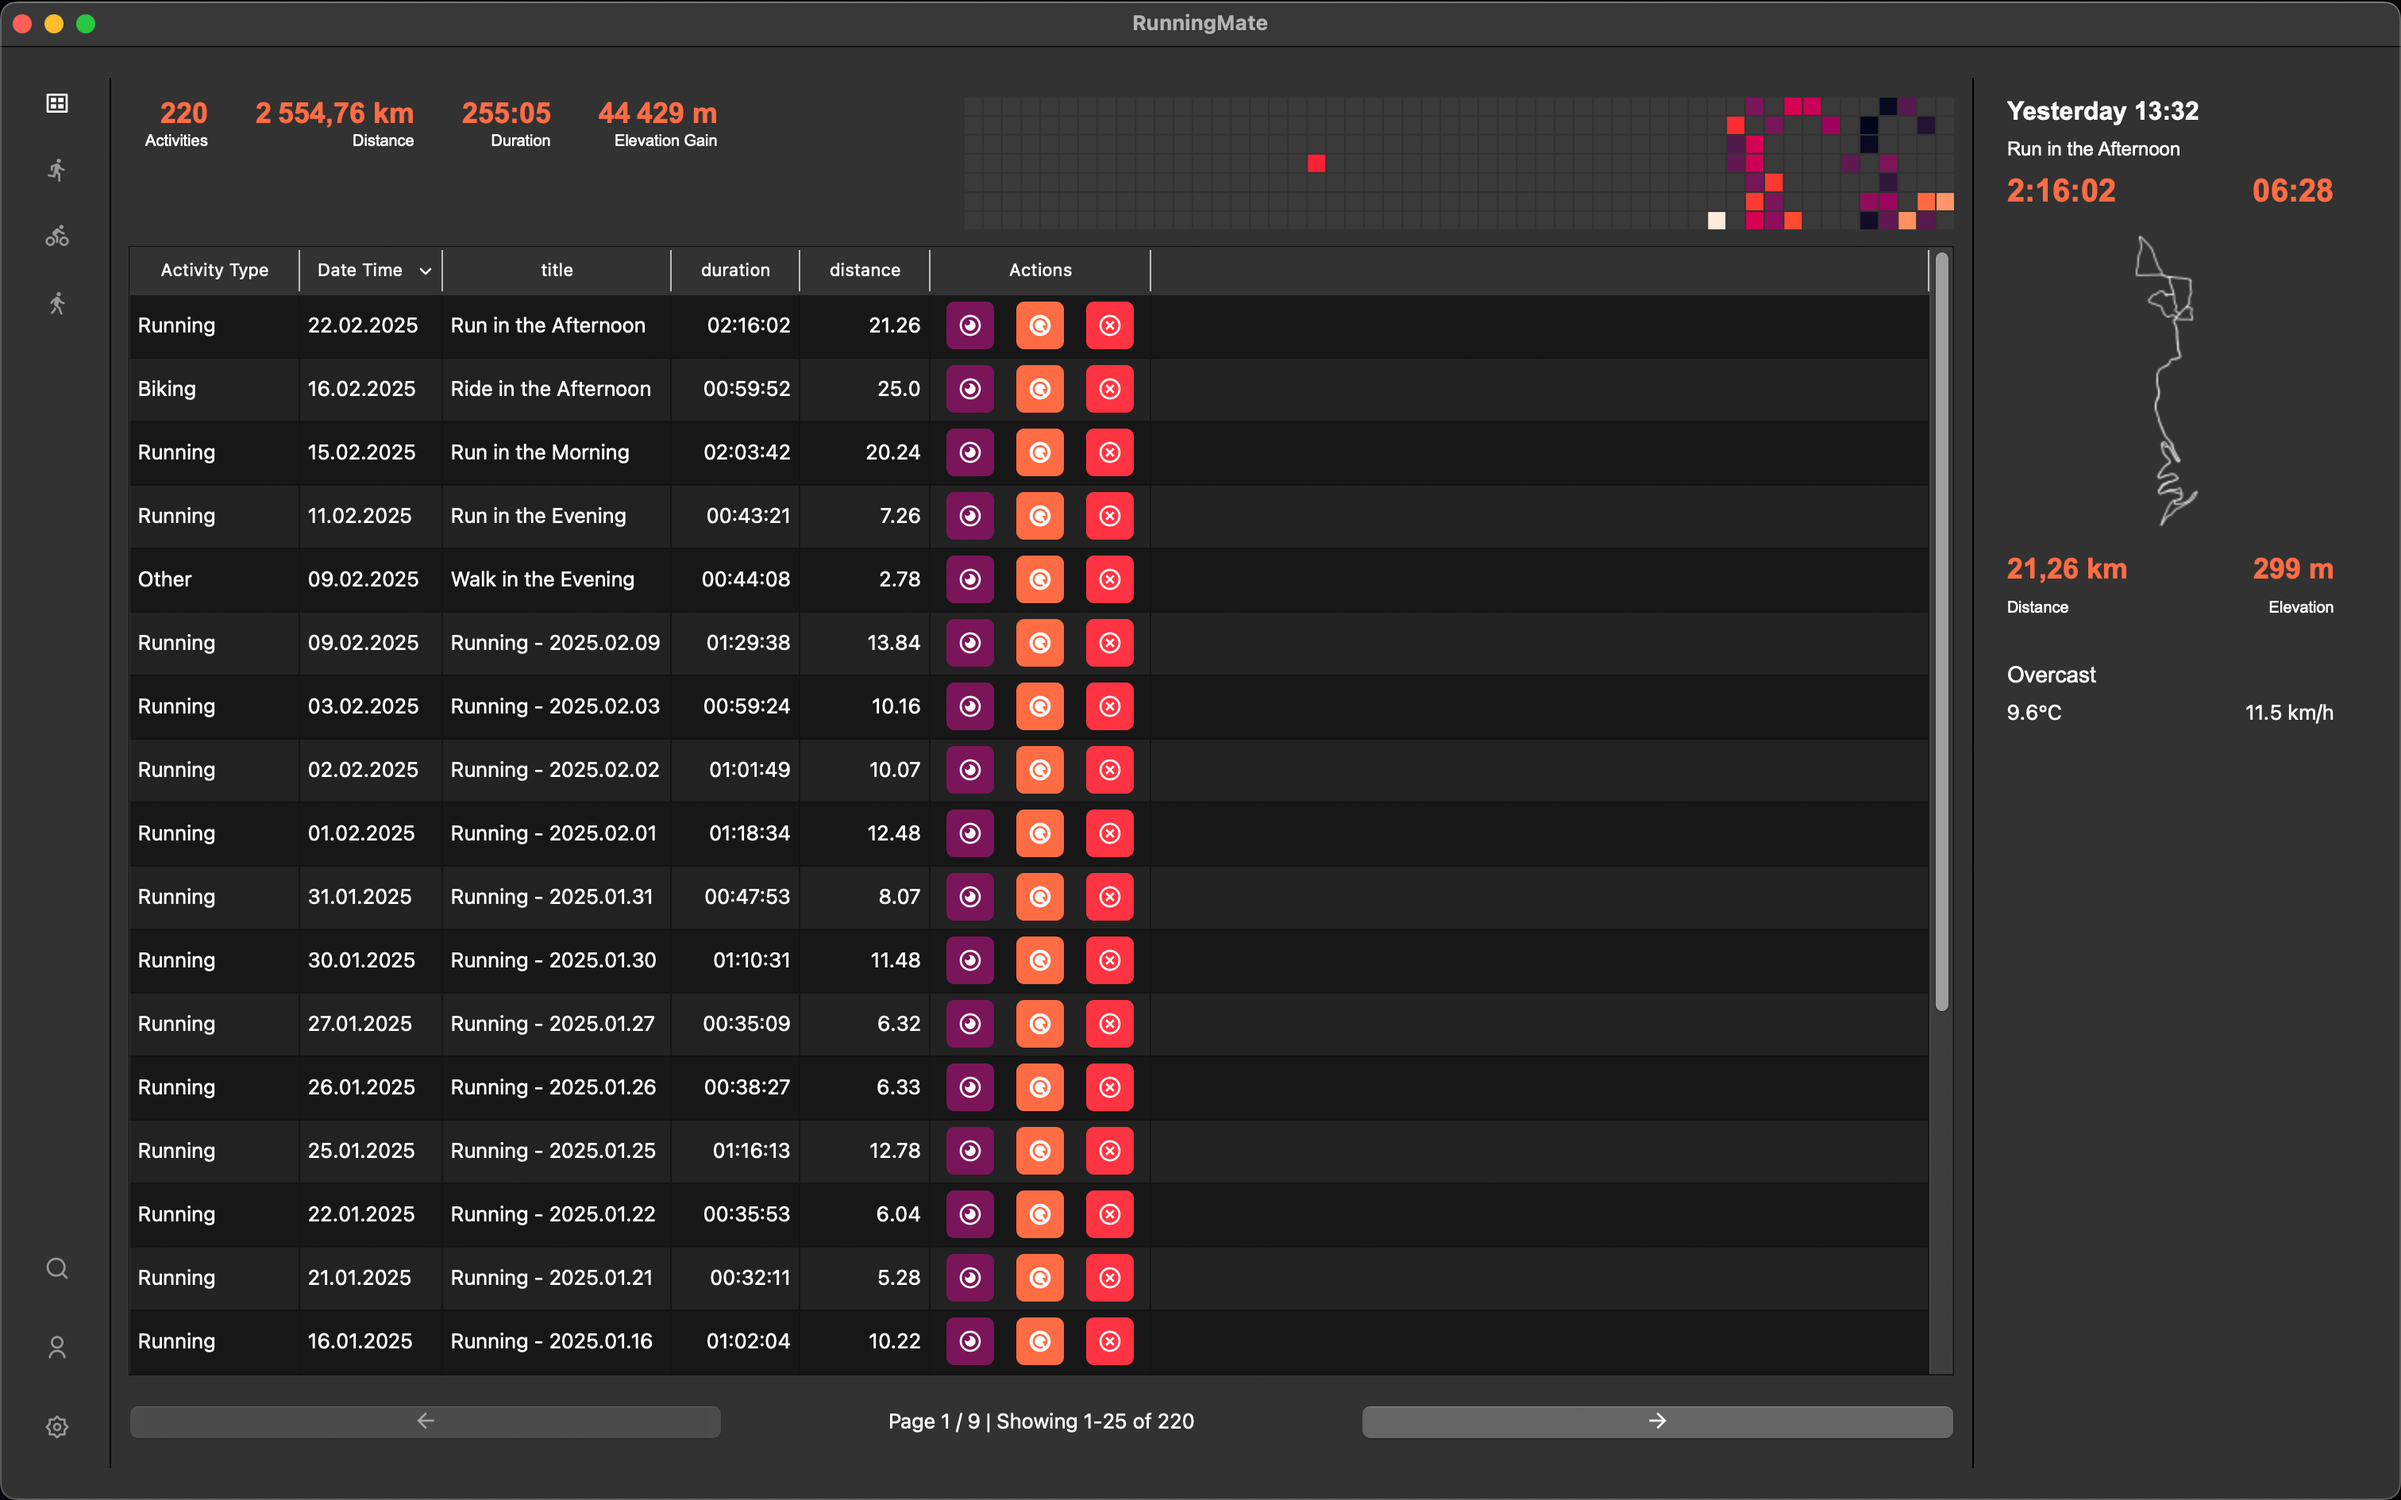
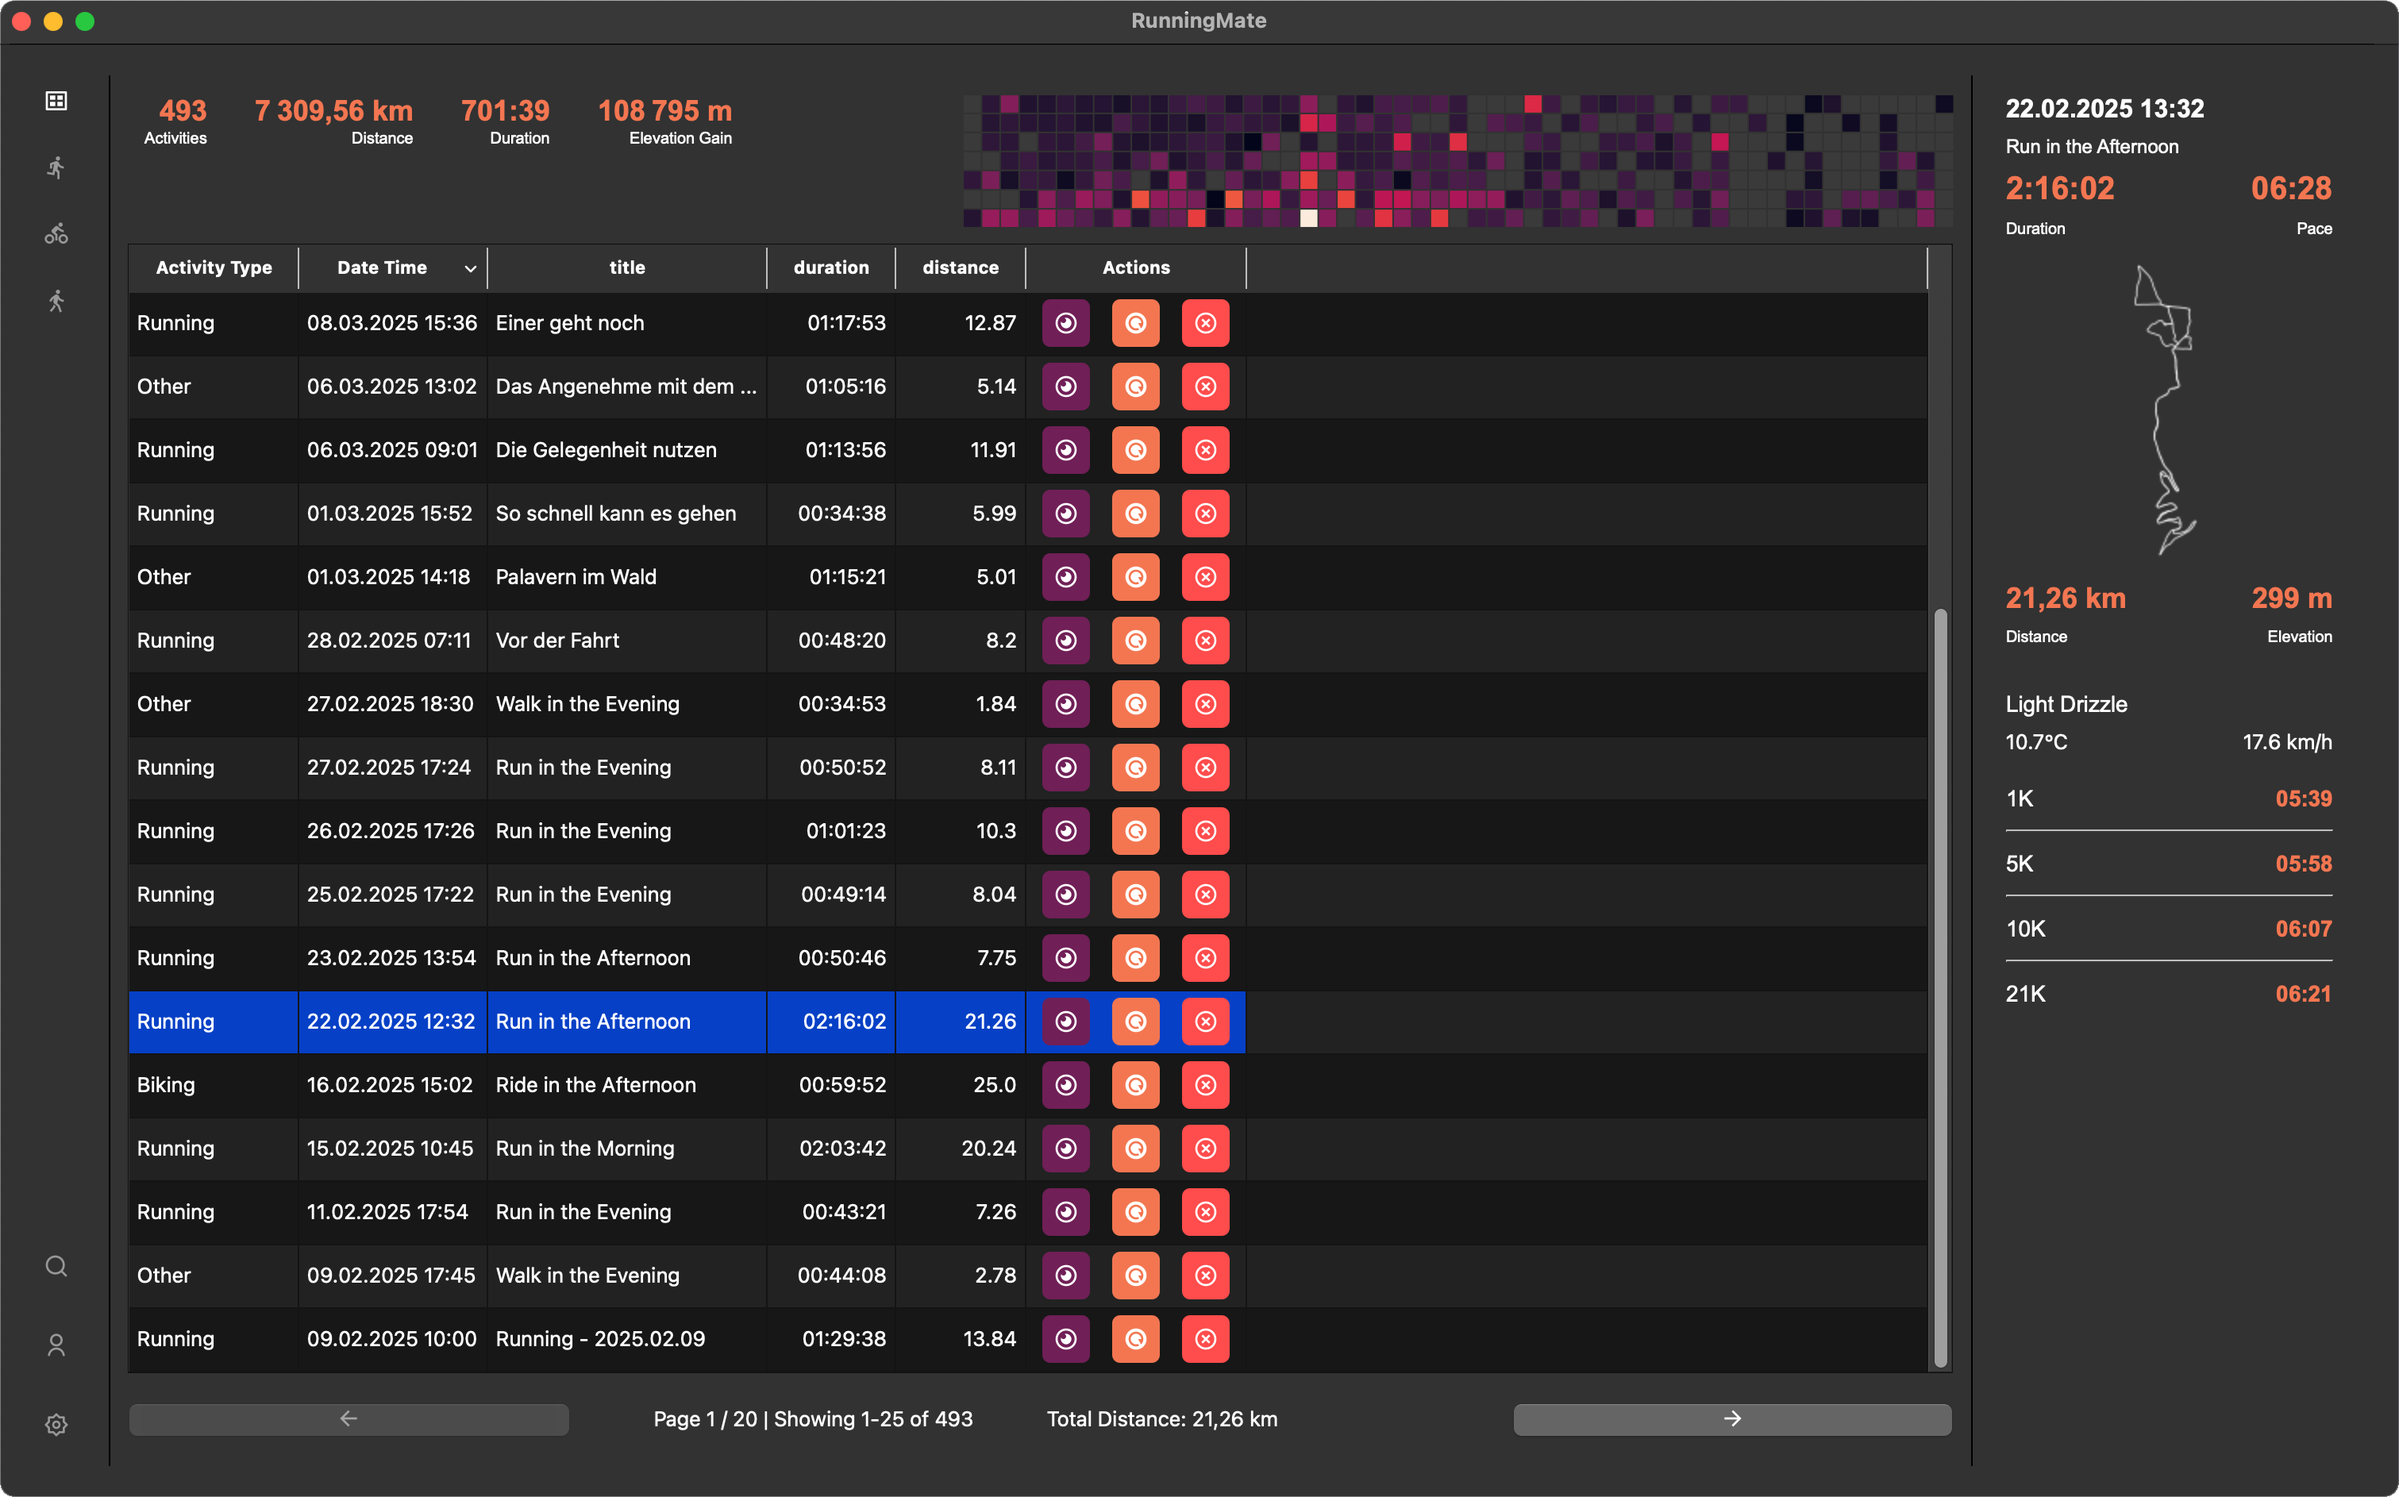
Updating docs

diff --git a/docs/ui/main-window.md b/docs/ui/main-window.md
@@ -1,8 +1,8 @@
-# The interface
+# Main Window
 
 The main window of RunningMate is divided into three main sections: the menu bar, the activity list, and the activity details.
 
-![Alt Text](../images/screens/main_01.png)
+![Main Screen](../images/screens/main_01.png)
 ## Menu Bar (left)
 
 Per default, you'll see all activities. You can easily filter the activities by type (running, cycling, walking) by clicking on the respective icon in the menu bar.
@@ -21,6 +21,9 @@ Clicking on the reloading button, the activity will be reprocessed.
 (In case some stats are not updating, or not updated, due to an older version of runningMate)
 The delete button will delete the activity permanently from the db (and all corresponding files).
 
+### Selecting multiple activities
+You can select multiple activities by holding the `Ctrl` key and clicking on the rows. You'll then find the total distance at the bottom of the list, right beside the pagination.
+
 ## Activity details (right)
 In case no activity is selected, you'll see the last registered activity, 
 in case you're using a filter for the type, the latest activity of the respective type.
@@ -32,3 +35,13 @@ The box shows the following data:
 - A track-map (if available)
 - Distance (KM), Elevation Gain (M)
 - Weather data if available: Overall condition, temperature and wind
+- Performances: Fastest 1KM, 5KM, 10KM, 21.1KM, 42.2KM (for running activities), 
+  Fastest 5KM, 10KM, 25KM, 50KM, 100KM, 200KM (for cycling activities)
+
+## The Search
+![Search and Filters](../images/screens/main_04.png)
+To trigger the search, you can either press the search button in the bottom left corner or via the app menu bar 'view -> search', or the shortcut 'Ctrl + F'.
+The search is case-insensitive and searches the title, the comment and if available the location(s) of the activity. In addition, you can filter by pressing the filter button in the search bar.
+Available filters are: Date (from - to), Distance (from - to), Duration (from - to), and Elevation Gain (from - to), filters are inclusive. 
+
+In case you have an active search, heatmap and key numbers are updated to the filtered activities.

diff --git a/docs/ui/detail-window.md b/docs/ui/detail-window.md
@@ -1,0 +1,28 @@
+# Detail Window
+
+Similar to the main window, the detail window has a menu bar on the left side, and a main section in the center. You can open
+the detail window by clicking on the eye icon on the right side of each activity in the main window.
+From top to bottom, you'll find the following sections:
+
+![Detail Window: Overview](../images/screens/detail_01.png)
+## Overview
+As in the main window, you'll see the key metrics of the activity, the track-map, and the weather data. 
+If you uploaded images or videos, you'll see a gallery on the right side of the window, followed by the comments section.
+
+## Segment Analysis
+This section shows the segments of the activity. For running activities, each segment is a kilometer, for cycling activities, each segment is 5 kilometers. 
+For each segment, you'll see the duration, pace, speed, heart rate, and power (if available).
+
+## Maps
+![Detail Window; Maps](../images/screens/detail_02.png)
+The map section shows the track of the activity. By using the buttons on the top right, you can switch between different map types (e.g., heart rate or pace).
+
+## Heart Rate Zones
+![Detail Window: Heart Rate Zones](../images/screens/detail_03.png)
+The heart rate zone section shows the distribution of your heart rate during the activity. 
+You'll find the editor for the zones in the [user settings](user-settings.md)). You'll also find a 
+trend chart showing the heart rate over the period of 90 days, if available.
+
+## Editing
+In the editing section, you can change the title, add a comment, and media files (images, videos). 
+It's also possible to correct core data like distance, duration, and elevation gain, but keep in mind that this will not effect the segment data.

diff --git a/docs/index.md b/docs/index.md
@@ -48,7 +48,16 @@ Extract the downloaded zip-file to a directory of your choice and navigate to it
    python main.py
    ```
 
+## Copyrights and Licenses
 
+### Icons
+All Icons made by [Remix](https://remixicon.com/). RemixIcon is licensed based on the [Apache License](https://github.com/Remix-Design/remixicon/blob/master/License) and all rights of products are reserved for RemixIcon.
 
+### Maps
+The maps are created with [Folium](https://python-visualization.github.io/folium/latest/index.html), [OpenStreetMap](https://www.openstreetmap.org) and [Leaflet](https://leafletjs.com/).
 
+### Charts
+The charts are created with [Plotly](https://github.com/plotly/plotly.py). `plotly.py` is [MIT](https://github.com/plotly/plotly.py/blob/main/LICENSE.txt) Licensed.
 
+### Weather Data
+The weather data is fetched from [Open-Meteo](https://open-meteo.com/). API data are offered under Attribution 4.0 International (CC BY 4.0), for further details see [here](https://open-meteo.com/en/license).

diff --git a/docs/ui/user-settings.md b/docs/ui/user-settings.md
@@ -1,0 +1,18 @@
+# User Settings
+Similar to the main window, the user settings has a menu bar on the left side, and a main section in the center. You can open
+the user settings by clicking on the user icon in the bottom left corner of the main window.
+From top to bottom, you'll find the following sections:
+
+![User Window: Overview](../images/screens/user_01.png)
+## General Settings
+The general settings are used to calculate metrics like Training Effect, VO2max, Heart Rate Zones and EPOC. 
+
+## Shoes
+You can add, edit and delete shoes here. The shoes are used to track the mileage of your running shoes.
+
+## Bikes
+You can add, edit and delete bikes here. The bikes are used to track the mileage of your bikes.
+
+## Heart Rate Zones
+In case you want to provide custom heart rate zones, you can do this here. This will be used for the calculation of the Training Effect of an activity, 
+the VO2max and heart rate zones in the [detail window](detail-window.md).
